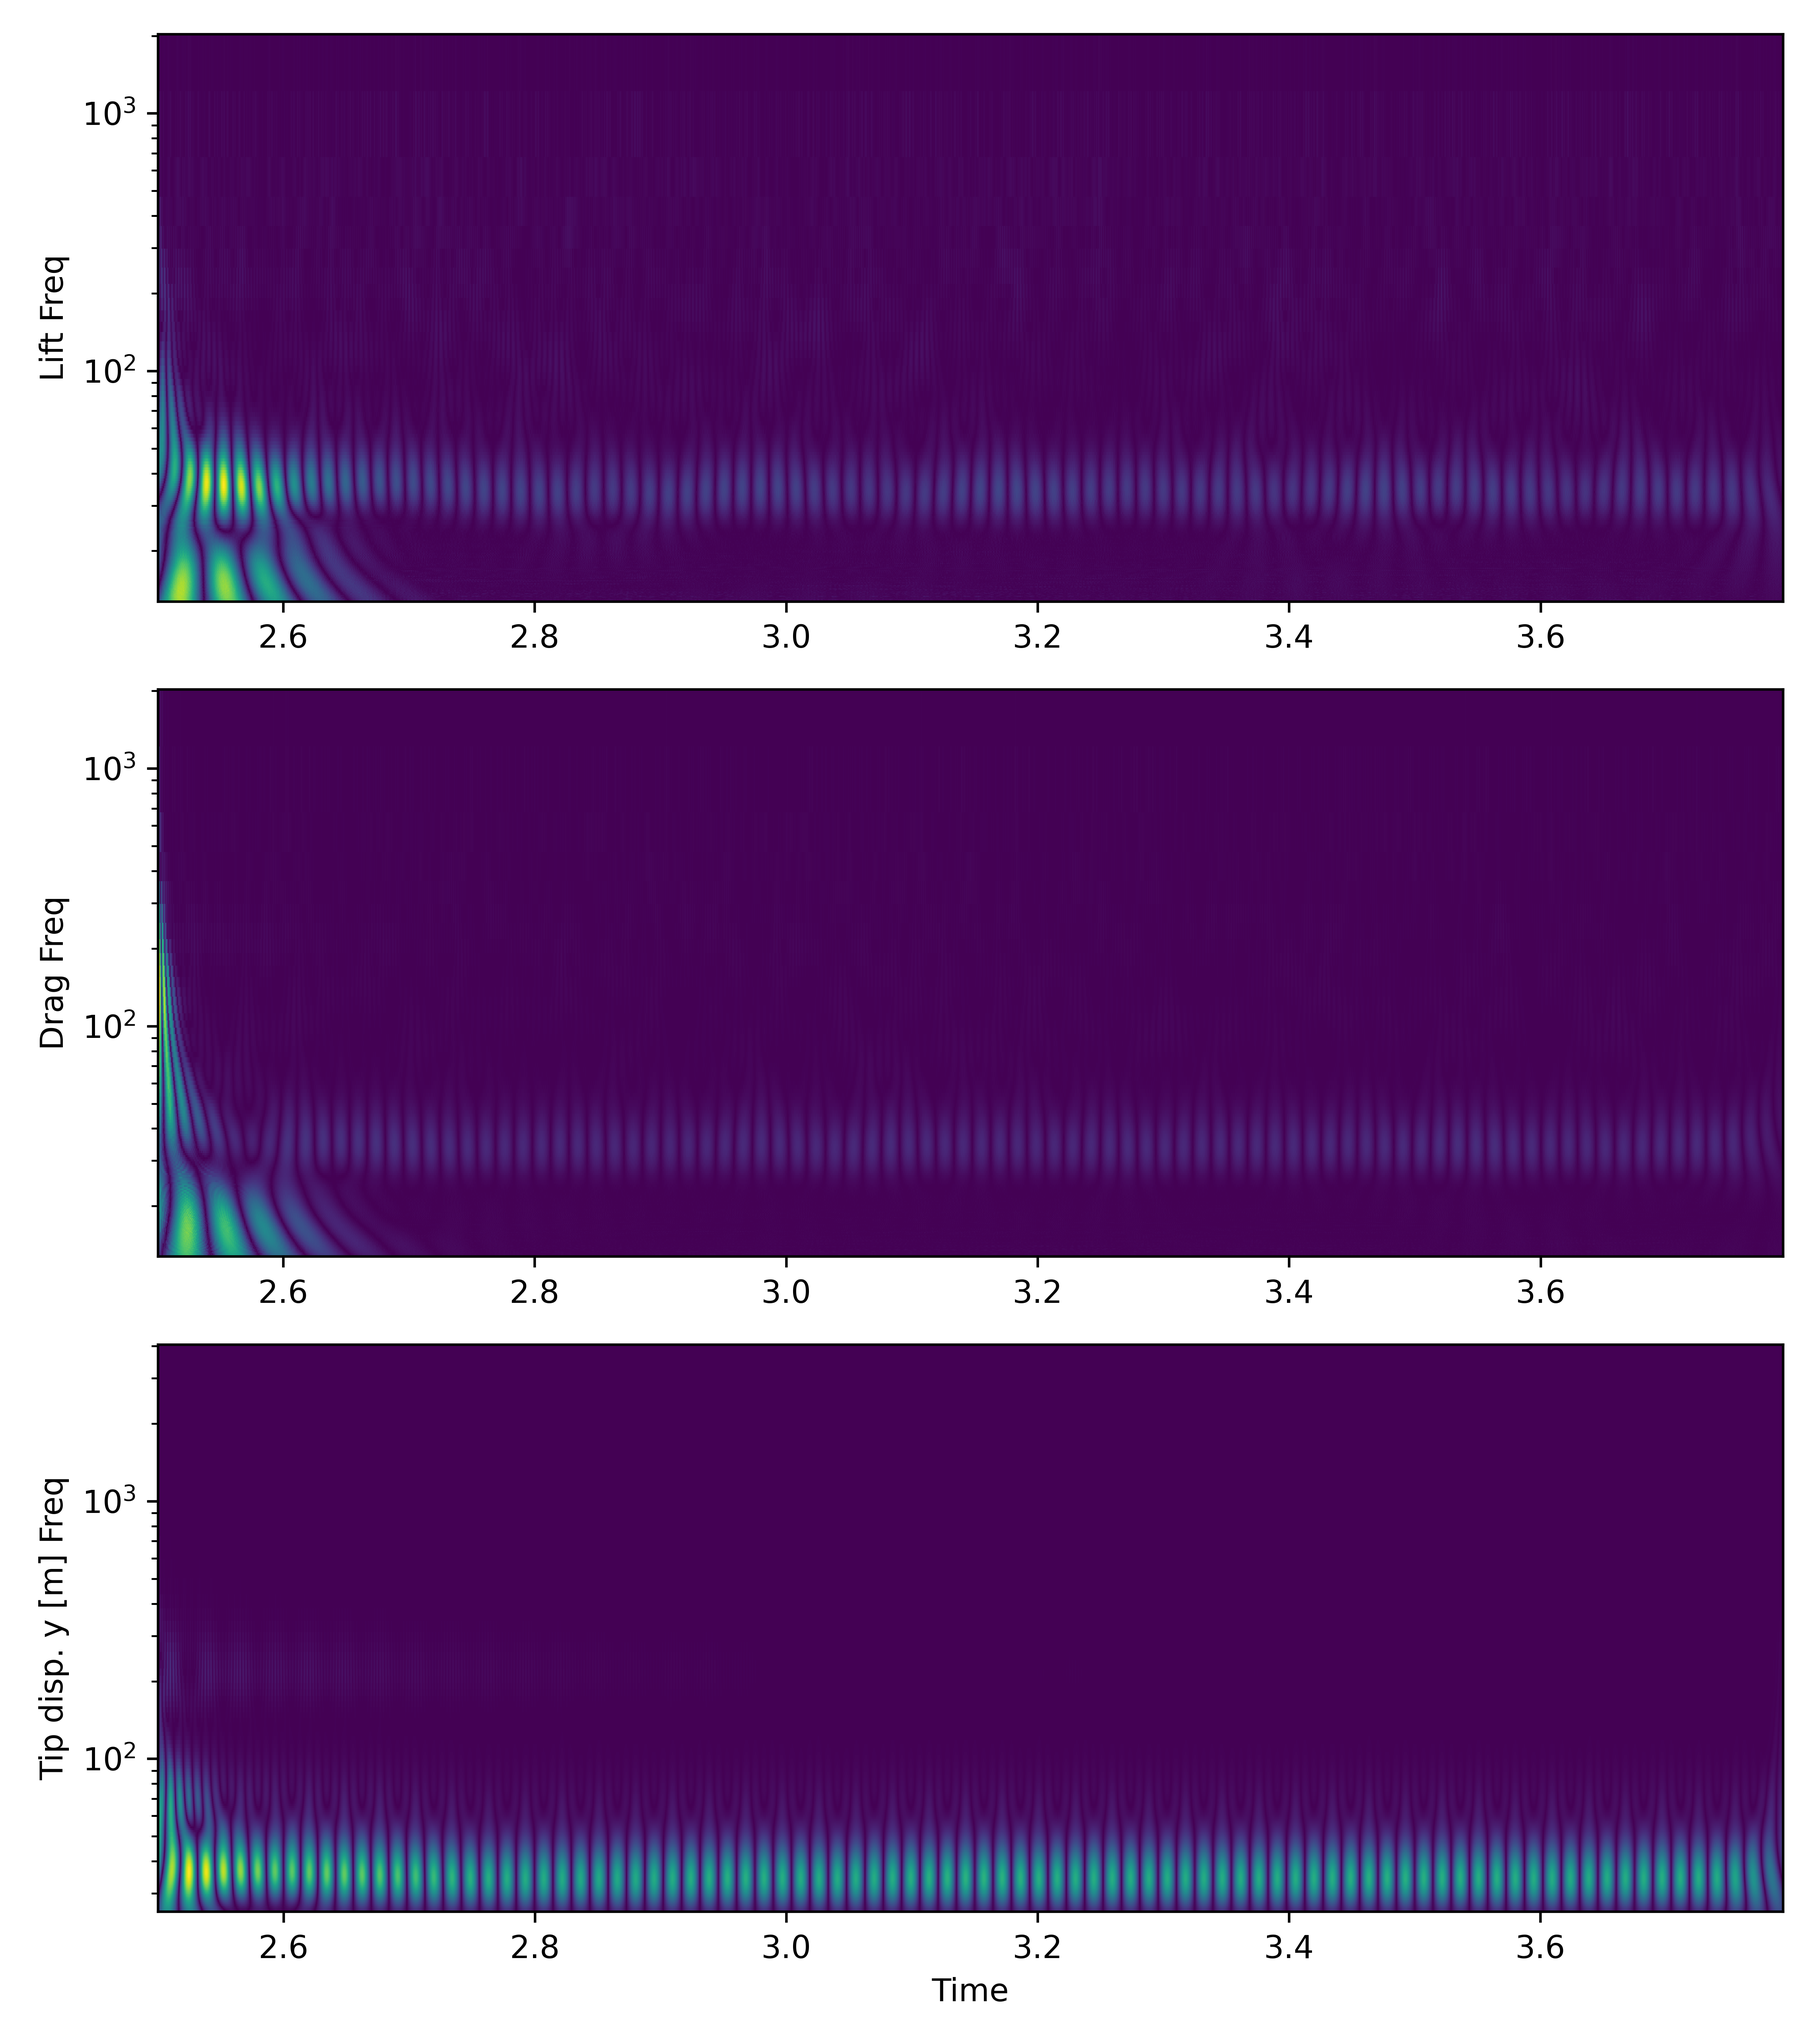
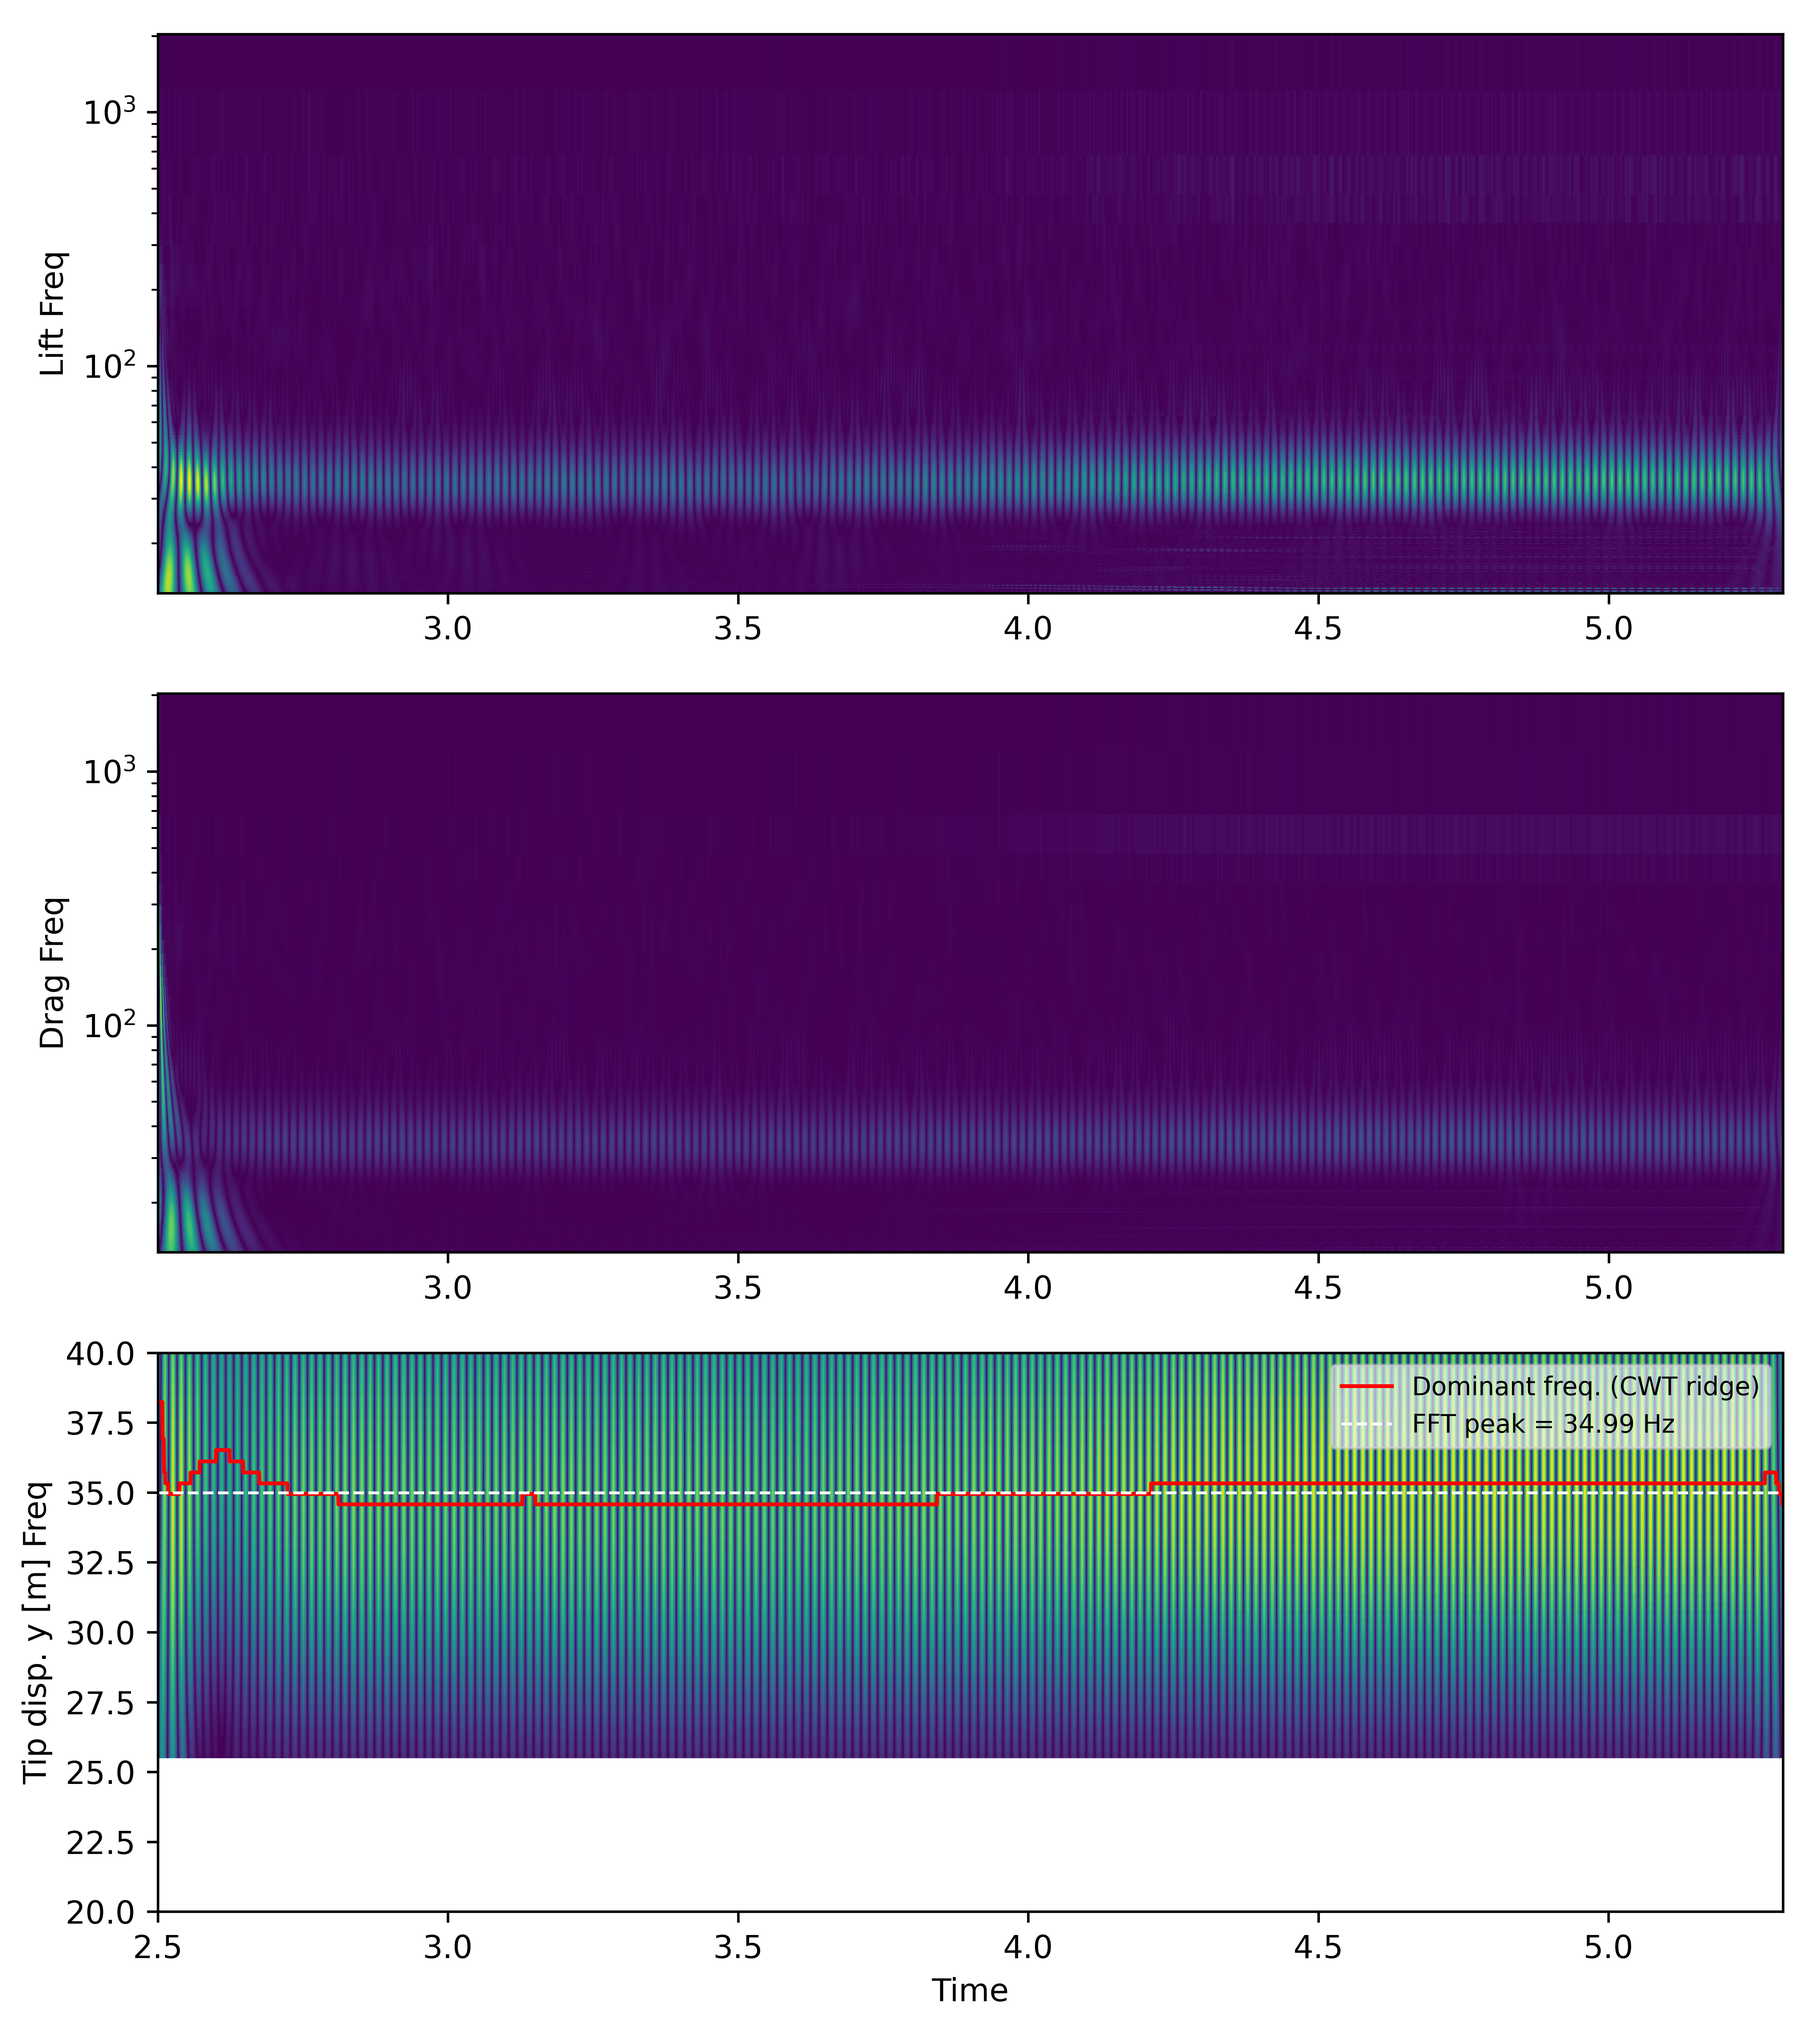
Added cwt3d

Changed region(s): [[0.0, 0.4356, 1.0, 0.9644], [0.0, 0.1244, 1.0, 0.3422]]

diff --git a/scripts/lift_drag_fft/plot_lift_drag.py b/scripts/lift_drag_fft/plot_lift_drag.py
@@ -28,13 +28,14 @@ matplotlib.use('Agg')
 import matplotlib.pyplot as plt
 import numpy as np
 import pywt
+from scipy.ndimage import median_filter, uniform_filter1d
 from scipy.signal import find_peaks
 
 # ============================================================================
 # CONFIG -- point this at whichever run's output you want to analyze.
 # ============================================================================
 #RUN_DIR = "/Volumes/SherlockScratch/DSMC_FEM_VALIDATION_P1/BEAM_LOCKIN/PHASE_1"
-RUN_DIR = "/Volumes/SherlockScratch/DSMC_FEM_VALIDATION_P1/BEAM_LOCKIN/PHASE_2R/PHASE_2R_SWEEP/f1_1p05/"
+RUN_DIR = "/Volumes/SherlockScratch/DSMC_FEM_VALIDATION_P1/BEAM_LOCKIN/PHASE_4R_DIAGNOSTIC/RUN1_rho08_long/"
 
 LIFT_DRAG_FILE = os.path.join(RUN_DIR, "EXAMPLE_BEAM", "lift_drag.dat")
 GDISPLAC_FILE = os.path.join(RUN_DIR, "results_beam", "gdisplac")
@@ -78,10 +79,26 @@ RELATIVE_PEAK_HEIGHT = 0.05
 
 WINDOW = 10  # samples, for the moving-average overlay
 
+# -- 3D CWT surface settings --------------------------------------------------
+# Frequency band to show in the 3D surfaces. The CWT's own band here is
+# ~25.6-3250 Hz (scales 1..127 at these sampling rates), but all the energy in
+# this problem sits below ~110 Hz, so rendering the full band would bury the
+# structure in a flat plain. Raise this if you expect higher harmonics.
+CWT3D_FMAX = 200.0
+# Surfaces get decimated in time to this many columns before rendering --
+# 10k-20k x 127 quads per panel is both unreadable (moire) and very slow to
+# rasterize. The CWT envelope is smooth in time, so this loses nothing visible.
+CWT3D_MAX_COLS = 500
+# Viewing angle: elevation above the time-frequency plane, and azimuth. The
+# default looks down the time axis from the front-right so ridges running
+# left-to-right read as "constant frequency over time".
+CWT3D_ELEV = 32
+CWT3D_AZIM = 50
+
 
 def load_lift_drag(path, st):
     step, time, drag, lift = np.loadtxt(path, skiprows=1, unpack=True)
-    mask = time > st
+    mask = (time > st) #& (time < st + 1)
     return time[mask], lift[mask], drag[mask]
 
 
@@ -107,7 +124,7 @@ def load_tip_displacement(path, time_offset, st):
         tip[b] = [float(v) for v in block[-1].split()]
 
     times = times + time_offset
-    mask = times > st
+    mask = (times > st) #& (times < st + 1)
     return times[mask], tip[mask, 0], tip[mask, 1], tip[mask, 2]
 
 
@@ -124,6 +141,51 @@ def fft_and_peaks(signal, dt, label, relative_height=RELATIVE_PEAK_HEIGHT):
 
 def moving_average(x, window=WINDOW):
     return np.convolve(x, np.ones(window) / window, mode='same')
+
+
+def plot_cwt_surface(ax, time, freqs, coefs, zlabel, ridge_freq=None,
+                     fmax=CWT3D_FMAX, max_cols=CWT3D_MAX_COLS):
+    """Draw |CWT| as a 3D surface -- x = time, y = frequency, z = magnitude.
+
+    Same data as the 2D pcolormesh panels, but with the quantity that was
+    encoded as color now encoded as height, viewed from an angle so a
+    persistent spectral peak reads as a ridge running along the time axis.
+
+    pywt returns frequencies in DESCENDING order (scale 1 = highest freq), so
+    both the frequency vector and the coefficient rows are reversed here to get
+    an ascending y axis.
+
+    If ridge_freq is given (one frequency per input time sample) it is traced
+    as a red line on the *ceiling* of the axes rather than on the surface
+    itself: mplot3d has no true per-face depth sorting, so a line lying on the
+    crest gets swallowed by the surface it sits on. Floating it above
+    everything keeps it readable from any angle -- read it as a top-down
+    shadow of where the peak is, not as a height.
+
+    Returns (t, f, z) of the decimated surface actually drawn."""
+    band = freqs <= fmax
+    f = freqs[band][::-1]
+    z = np.abs(coefs[band][::-1])
+
+    stride = max(1, len(time) // max_cols)
+    t = time[::stride]
+    z = z[:, ::stride]
+
+    T, F = np.meshgrid(t, f)
+    ax.plot_surface(T, F, z, cmap='viridis', rstride=1, cstride=1,
+                    linewidth=0, antialiased=False)
+
+    zmax = z.max()
+    if ridge_freq is not None:
+        ax.plot(t, ridge_freq[::stride], np.full(len(t), zmax * 1.08),
+                color='red', lw=1.3, label='Dominant freq. (CWT ridge)')
+    ax.set_zlim(0, zmax * 1.12)
+
+    ax.set_xlabel("Time [s]", labelpad=6)
+    ax.set_ylabel("Freq [Hz]", labelpad=6)
+    ax.set_zlabel(zlabel, labelpad=6)
+    ax.view_init(elev=CWT3D_ELEV, azim=CWT3D_AZIM)
+    return t, f, z
 
 
 def main():
@@ -192,6 +254,32 @@ def main():
     drag_cwt, _ = pywt.cwt(drag - drag.mean(), scales, "morl", sampling_period=dt_ld)
     tip_cwt, cwt_freqs_tip = pywt.cwt(tip_disp - tip_disp.mean(), scales, "morl", sampling_period=dt_tip)
 
+    # Instantaneous dominant frequency of the tip displacement: at each time,
+    # the frequency whose wavelet coefficient has the largest magnitude (the
+    # CWT "ridge"). Unlike the single FFT peak this tracks how the dominant
+    # frequency drifts in time -- e.g. the transition into lock-in.
+    #
+    # A raw per-sample argmax is unusable here: twice per cycle the
+    # fundamental's coefficient passes through a local minimum and the 2nd
+    # harmonic (~2*f) momentarily wins, so the ridge flips 34.6 <-> 69 Hz
+    # every few samples and the overlay becomes a solid band. Smoothing the
+    # |CWT| envelope over ~1 dominant period before the argmax (then median-
+    # filtering the result) removes that intra-cycle flicker while leaving
+    # genuine multi-cycle frequency drift intact.
+    if len(tip_pf) and tip_pf[0] > 0:
+        nsmooth = max(3, int(round(1.0 / (tip_pf[0] * dt_tip))))
+    else:
+        nsmooth = 3
+    tip_env = uniform_filter1d(np.abs(tip_cwt), size=nsmooth, axis=1, mode='nearest')
+    tip_ridge_freq = cwt_freqs_tip[np.argmax(tip_env, axis=0)]
+    tip_ridge_freq = median_filter(tip_ridge_freq, size=nsmooth, mode='nearest')
+    # The first/last ~1 cycle of the low-frequency scales sits inside the cone
+    # of influence (edge effects), so treat the ridge near t_start/t_end as
+    # unreliable.
+    print(f"\nTip disp. ({TIP_COMPONENT}) CWT ridge -- dominant frequency:")
+    print(f"-> median over the record: {np.median(tip_ridge_freq):.2f} Hz")
+    print(f"-> final value (t = {time_tip[-1]:.4f} s): {tip_ridge_freq[-1]:.2f} Hz")
+
     fig, (ax1, ax2, ax3) = plt.subplots(3, 1, sharex=False, figsize=(8, 9))
 
     ax1.pcolormesh(time_ld, cwt_freqs_ld, np.abs(lift_cwt), shading="auto")
@@ -203,15 +291,48 @@ def main():
     ax2.set_yscale("log")
 
     ax3.pcolormesh(time_tip, cwt_freqs_tip, np.abs(tip_cwt), shading="auto")
+    ax3.plot(time_tip, tip_ridge_freq, color='red', lw=1.2,
+             label='Dominant freq. (CWT ridge)')
+    if len(tip_pf):
+        ax3.axhline(tip_pf[0], color='white', lw=0.9, linestyle='--',
+                    label=f'FFT peak = {tip_pf[0]:.2f} Hz')
     ax3.set_ylabel(f"{tip_label} Freq")
     ax3.set_xlabel("Time")
-    ax3.set_yscale("log")
+    ax3.set_ylim(20,40)
+    ax3.legend(loc='upper right', fontsize=8, framealpha=0.6)
+    # ax3.set_yscale("log")
 
     plt.tight_layout()
     plt.savefig(os.path.join(OUTPUT_DIR, "cwt.png"), dpi=600)
     plt.close(fig)
 
-    print(f"\nSaved timeseries.png, fft.png, cwt.png to {OUTPUT_DIR}")
+    # -- Same CWTs as 3D surfaces (power as height) --------------------------
+    fig = plt.figure(figsize=(9, 15))
+
+    ax1 = fig.add_subplot(3, 1, 1, projection='3d')
+    plot_cwt_surface(ax1, time_ld, cwt_freqs_ld, lift_cwt, "|CWT| Lift")
+    ax1.set_title("Lift", pad=0)
+
+    ax2 = fig.add_subplot(3, 1, 2, projection='3d')
+    plot_cwt_surface(ax2, time_ld, cwt_freqs_ld, drag_cwt, "|CWT| Drag")
+    ax2.set_title("Drag", pad=0)
+
+    ax3 = fig.add_subplot(3, 1, 3, projection='3d')
+    # Reuse the same smoothed ridge the 2D panel draws, so "dominant
+    # frequency" means one thing across both figures.
+    plot_cwt_surface(ax3, time_tip, cwt_freqs_tip, tip_cwt,
+                     f"|CWT| {tip_label}", ridge_freq=tip_ridge_freq)
+    ax3.legend(loc='upper left', fontsize=8)
+    ax3.set_title(f"Tip displacement ({TIP_COMPONENT})", pad=0)
+
+    # tight_layout misplaces 3D axes (it can't account for the projected
+    # bounding box), so space the panels manually.
+    fig.subplots_adjust(left=0.02, right=0.93, top=0.97, bottom=0.03,
+                        hspace=0.18)
+    plt.savefig(os.path.join(OUTPUT_DIR, "cwt3d.png"), dpi=300)
+    plt.close(fig)
+
+    print(f"\nSaved timeseries.png, fft.png, cwt.png, cwt3d.png to {OUTPUT_DIR}")
 
 
 if __name__ == "__main__":
